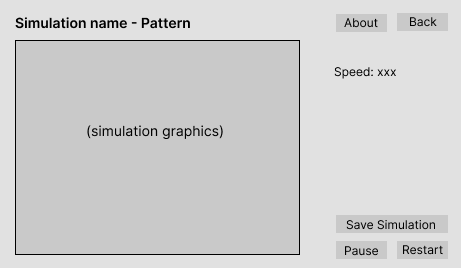
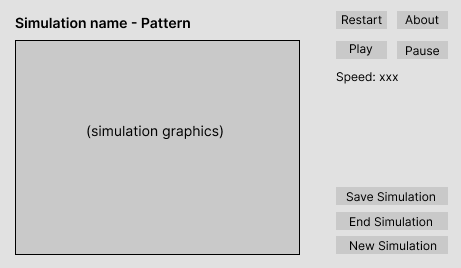
DesignPlan - added Design Details

diff --git a/doc/DESIGN_PLAN.md b/doc/DESIGN_PLAN.md
@@ -53,7 +53,7 @@ __Select pattern page:__
 - clicking on other buttons goes to simulation page
 
 
-__Upload custom configuration file page:__
+__Upload custom configuration file page (extension feature):__
 
 
 ![upload custom xml](images/upload-file.png "upload custom xml configuration file")
@@ -68,8 +68,7 @@ __Simulation Page:__
 
 ![Simulation](images/simulation.png "simulation page")
 
-
-- clicking on ```back``` goes back to select simulation page
+- clicking on ```New Simulation``` stops current simulation goes back to select simulation page for user to load new simulation
 - clicking on ```about``` pauses current simulation and goes to the about page
 - clicking on ```restart``` restarts the current simulation
 - user is able to change the simulation speed and save simulation on this page
@@ -77,9 +76,7 @@ __Simulation Page:__
 
 __About Page:__
 
-
 ![simulation info](images/about.png "simulation info page")
-
 
 - clicking on ```back``` goes back to simulation
 
@@ -87,14 +84,19 @@ __About Page:__
 
 
 ## Design Details
+- **Neighborhood** is an abstract class because it shows the way neighbourhoods are determined (For example, in Conway’s Game of Life, all eight surrounding cells are considered neighbors, but in Spreading of Fire, only the four adjacent cells are.) For each distinct way of determining neighborhood there will be a subclass extending the superclass with a corresponding ```getNeighbors()``` method
+- **Simulation** contains the model of is an abstract class because each simulation has a different set of finite states and rules controlling state change. Therefore, each simulation will have a corresponding subclass extending this abstract class and implementing the ```transitionFunction()``` method and specifying the states.
 
+Both of these will need the information read by the XMLParser to know which simulation it's on in order to extend according to the rules for a specific simulation.
+
+The method signatures will not reveal the implementation of datastructures, etc. For grid, we will be using a grid class, and iterating through the grid to set states will be done through getNext() methods, so that the data structure of the grid is not revealed. For file format, XMLParser will be responsible for getting and reading the file, and it will return the results to other classes. Therefore there would not be a public method that includes the file format.
 
 ## Use Cases
 
 ### Provided Use Cases:
 1. Apply the rules to a middle cell: set the next state of a cell to dead by counting its number of neighbors using the Game of Life rules for a cell in the middle (i.e., with all its neighbors)
 ```java
-   
+
 ```
 2. Apply the rules to an edge cell: set the next state of a cell to live by counting its number of neighbors using the Game of Life rules for a cell on the edge (i.e., with some of its neighbors missing)
 ```java
@@ -102,7 +104,7 @@ __About Page:__
 ```
 3. Move to the next generation: update all cells in a simulation from their current state to their next state and display the result graphically
 ```java
-
+   
 ```
 4. Switch simulations: load a new simulation from a data file, replacing the current running simulation with the newly loaded one
 ```java
@@ -131,6 +133,9 @@ __About Page:__
    this could be implemented is to have a separate button for "play" and "step", where "play" will
    call the update function repeatedly at a given time interval until "stop" is pressed, whereas
    step will essentially call the update function once and then effectively hit "stop"
+
+### Alisha's Use Cases
+1. 
 
 ## Design Considerations
 
